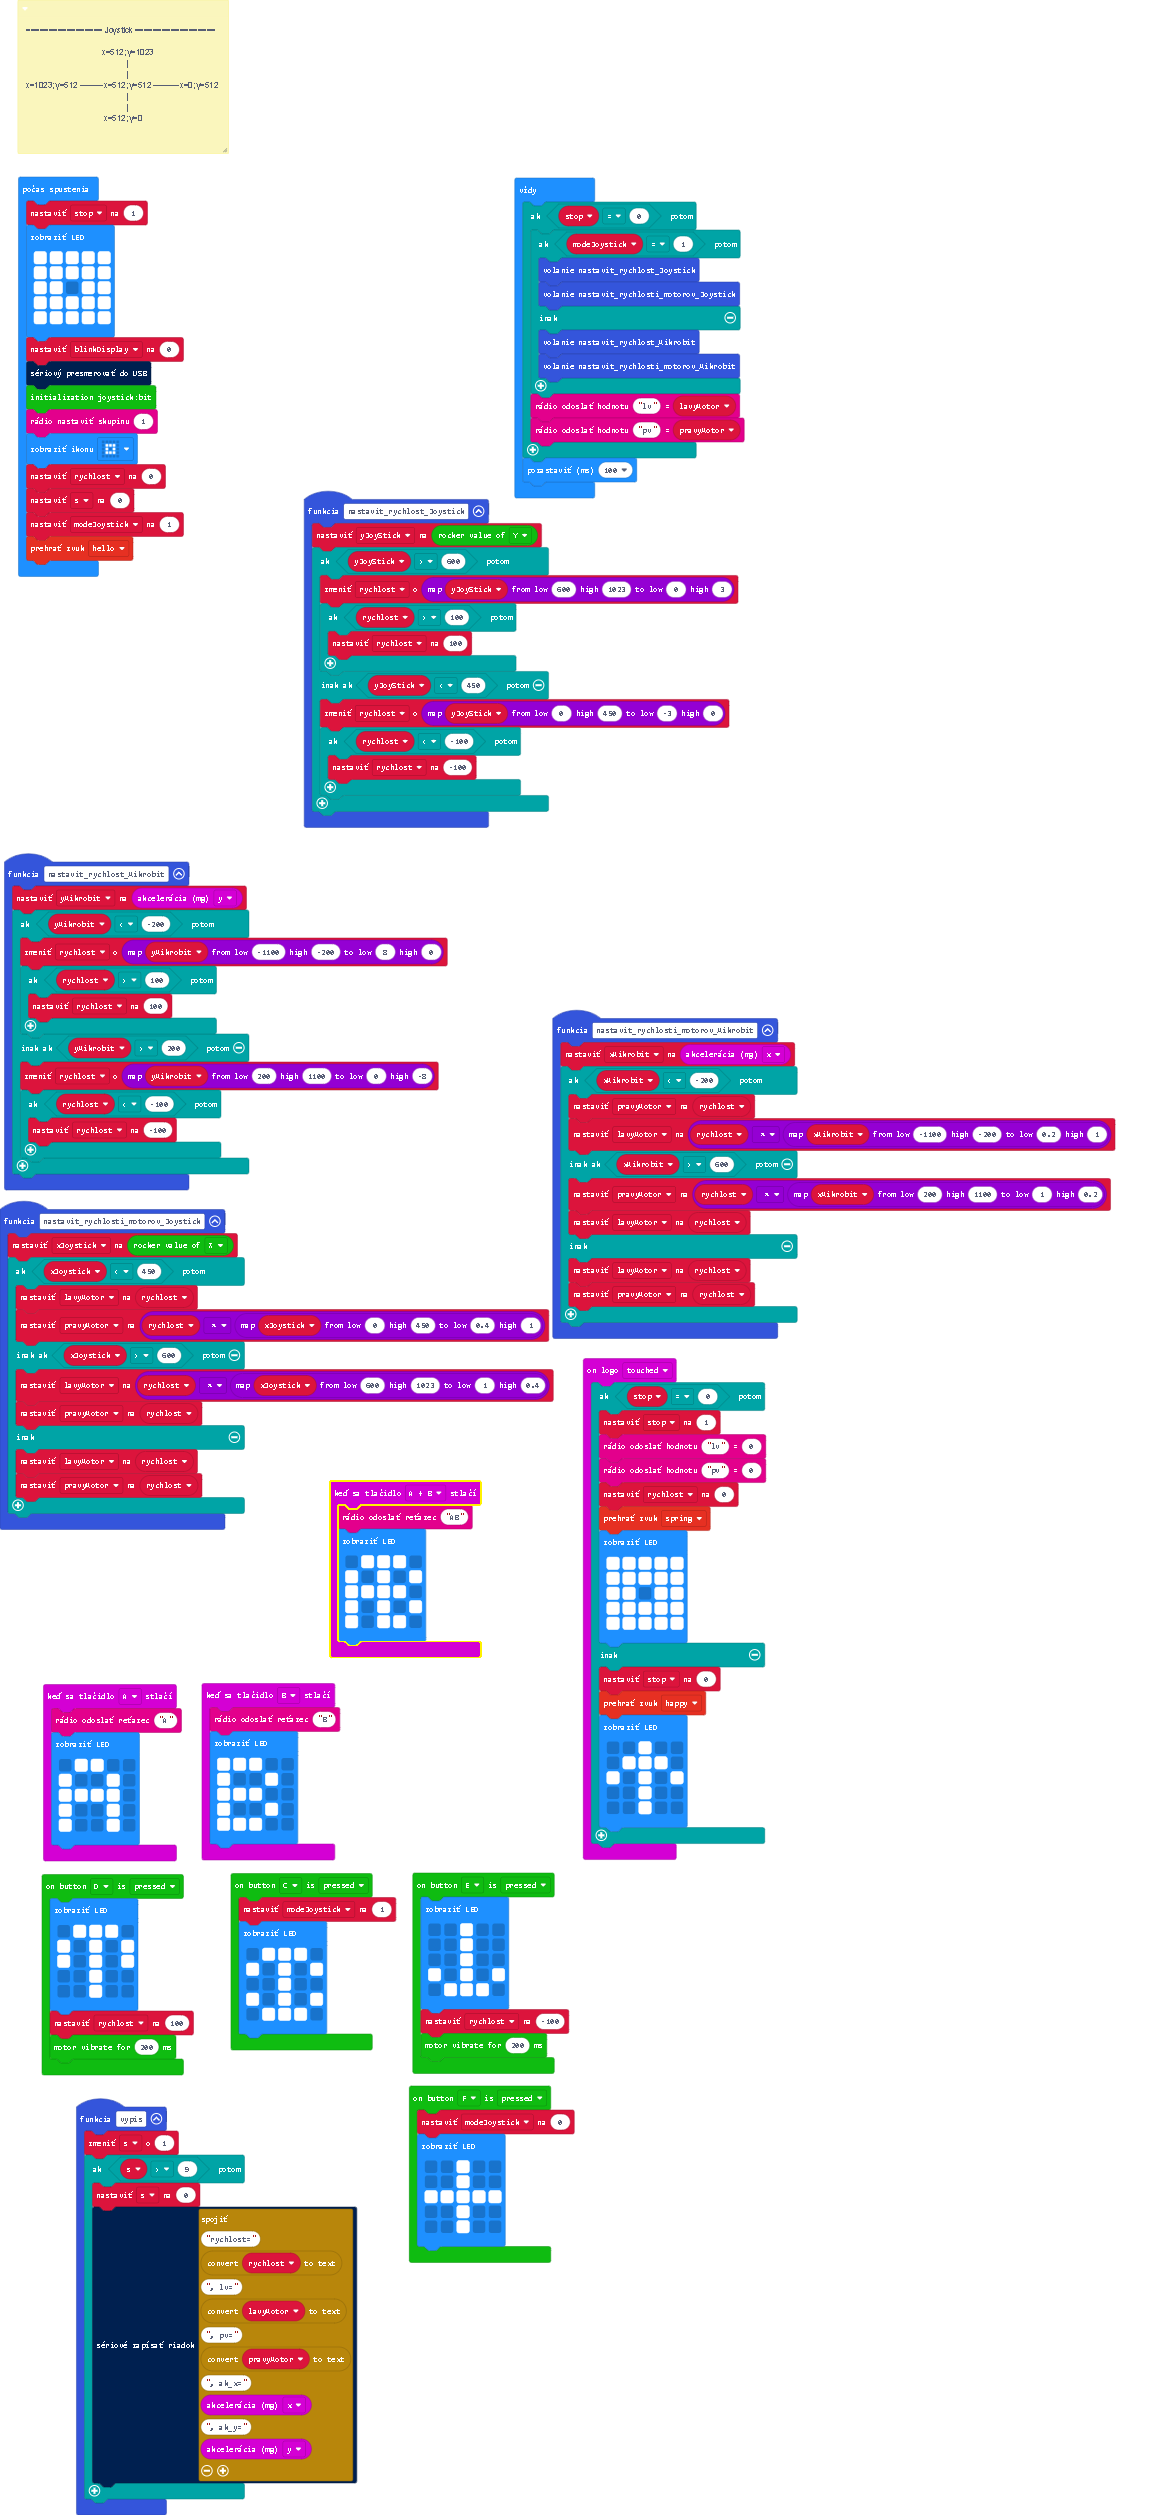
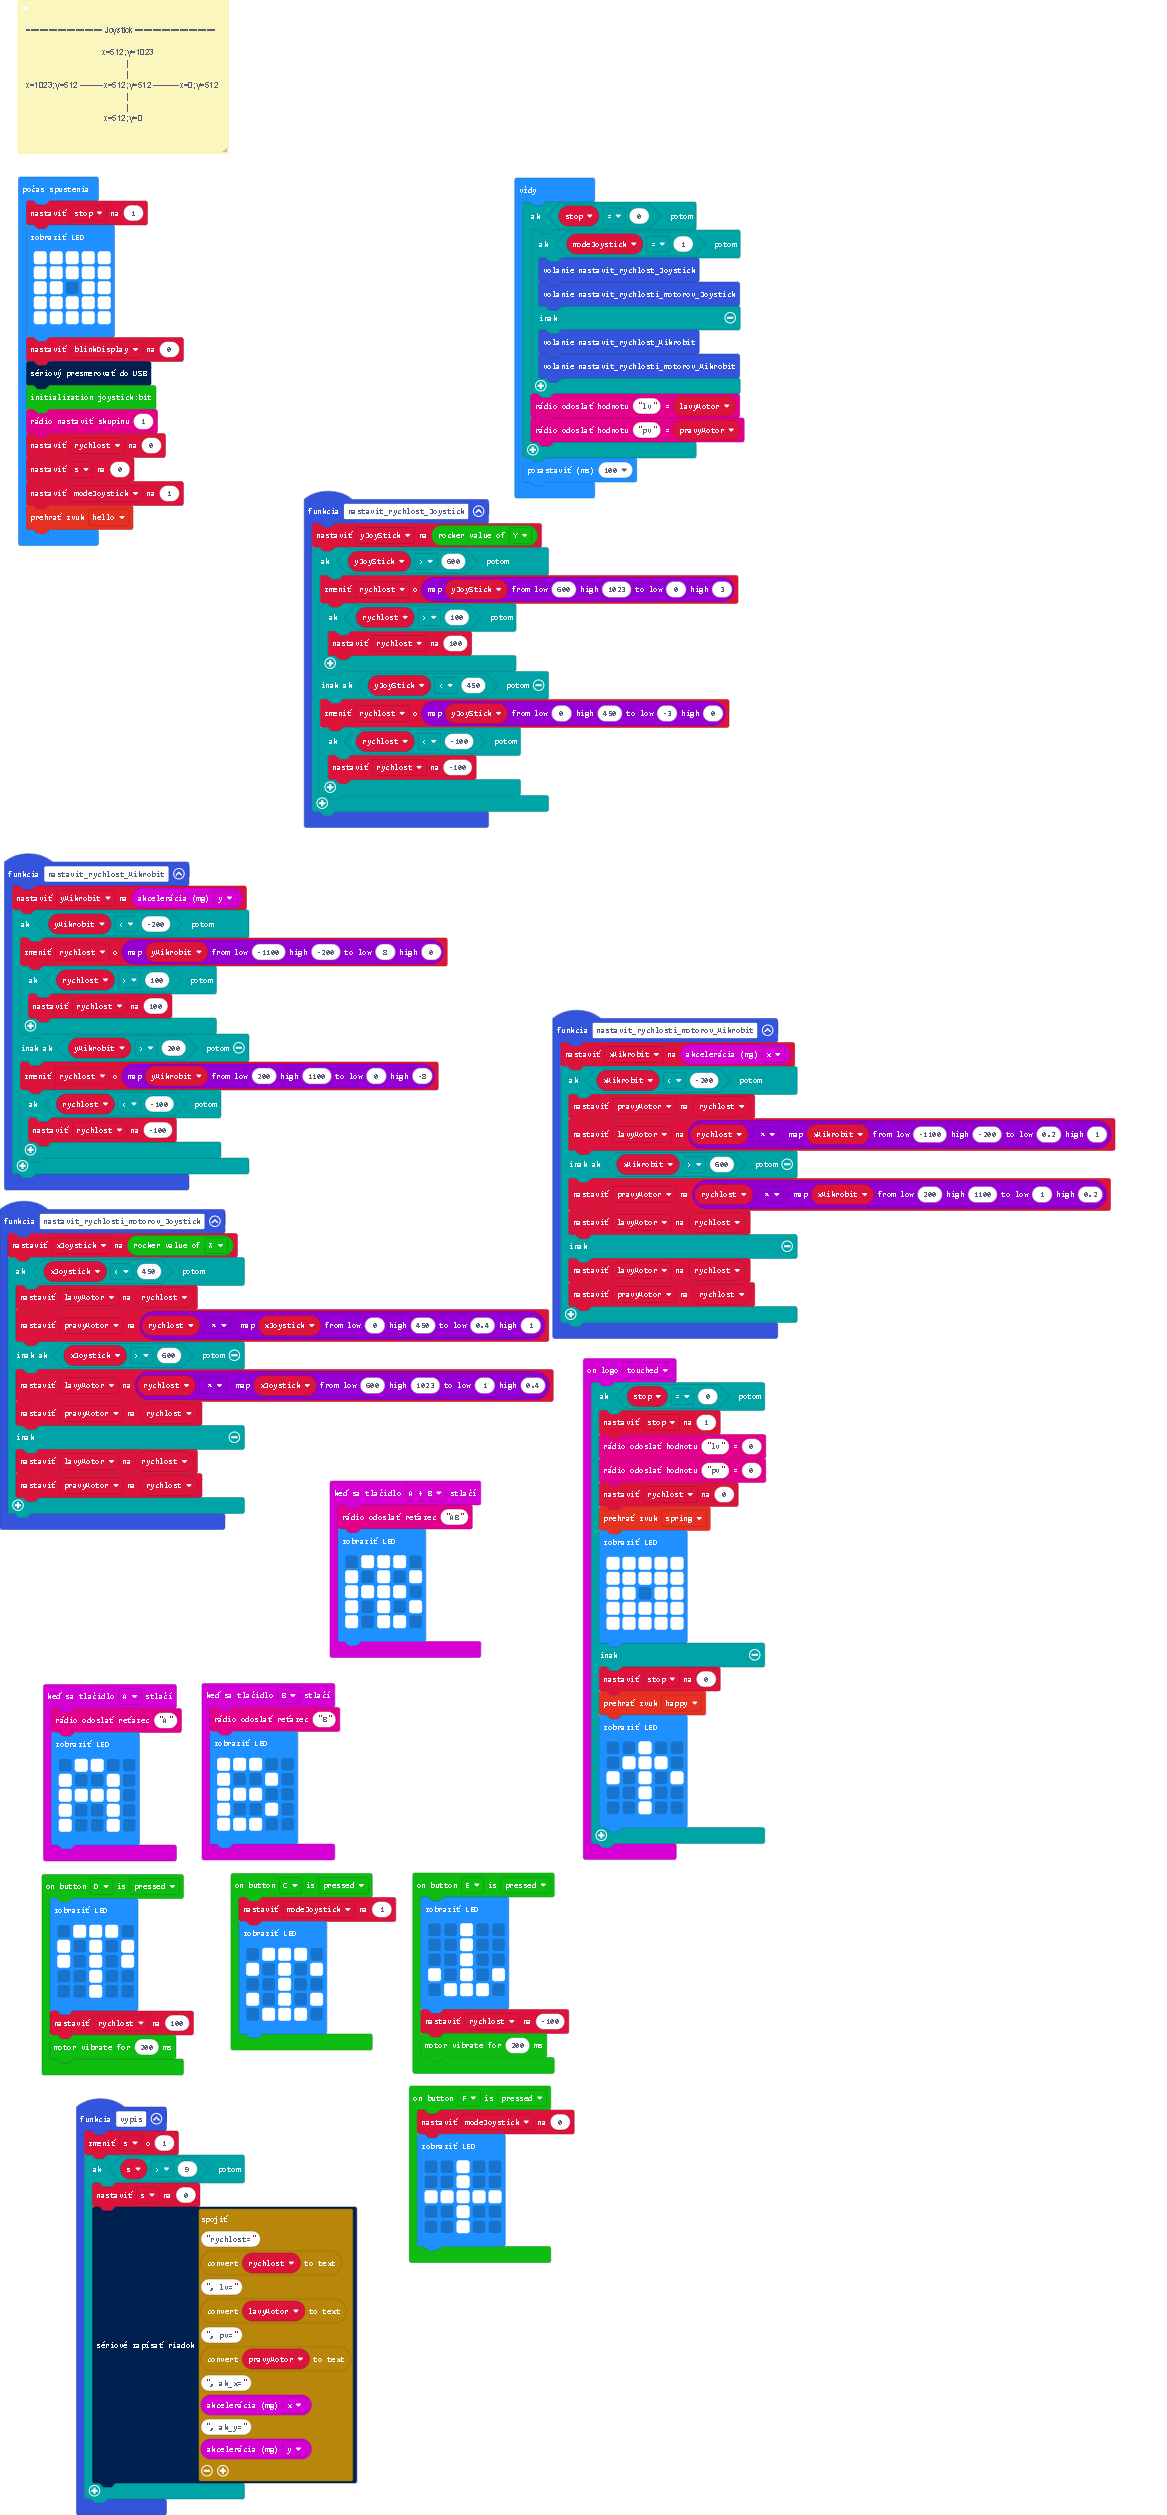
stop4

Changed region(s): [[0.0, 0.1551, 0.1542, 0.2481], [0.2776, 0.5893, 0.3085, 0.6513]]

diff --git a/main.ts b/main.ts
@@ -198,7 +198,6 @@ let blinkDisplay = 0
 serial.redirectToUSB()
 joystickbit.initJoystickBit()
 radio.setGroup(1)
-basic.showIcon(IconNames.SmallSquare)
 rychlost = 0
 s = 0
 modeJoystick = 1
